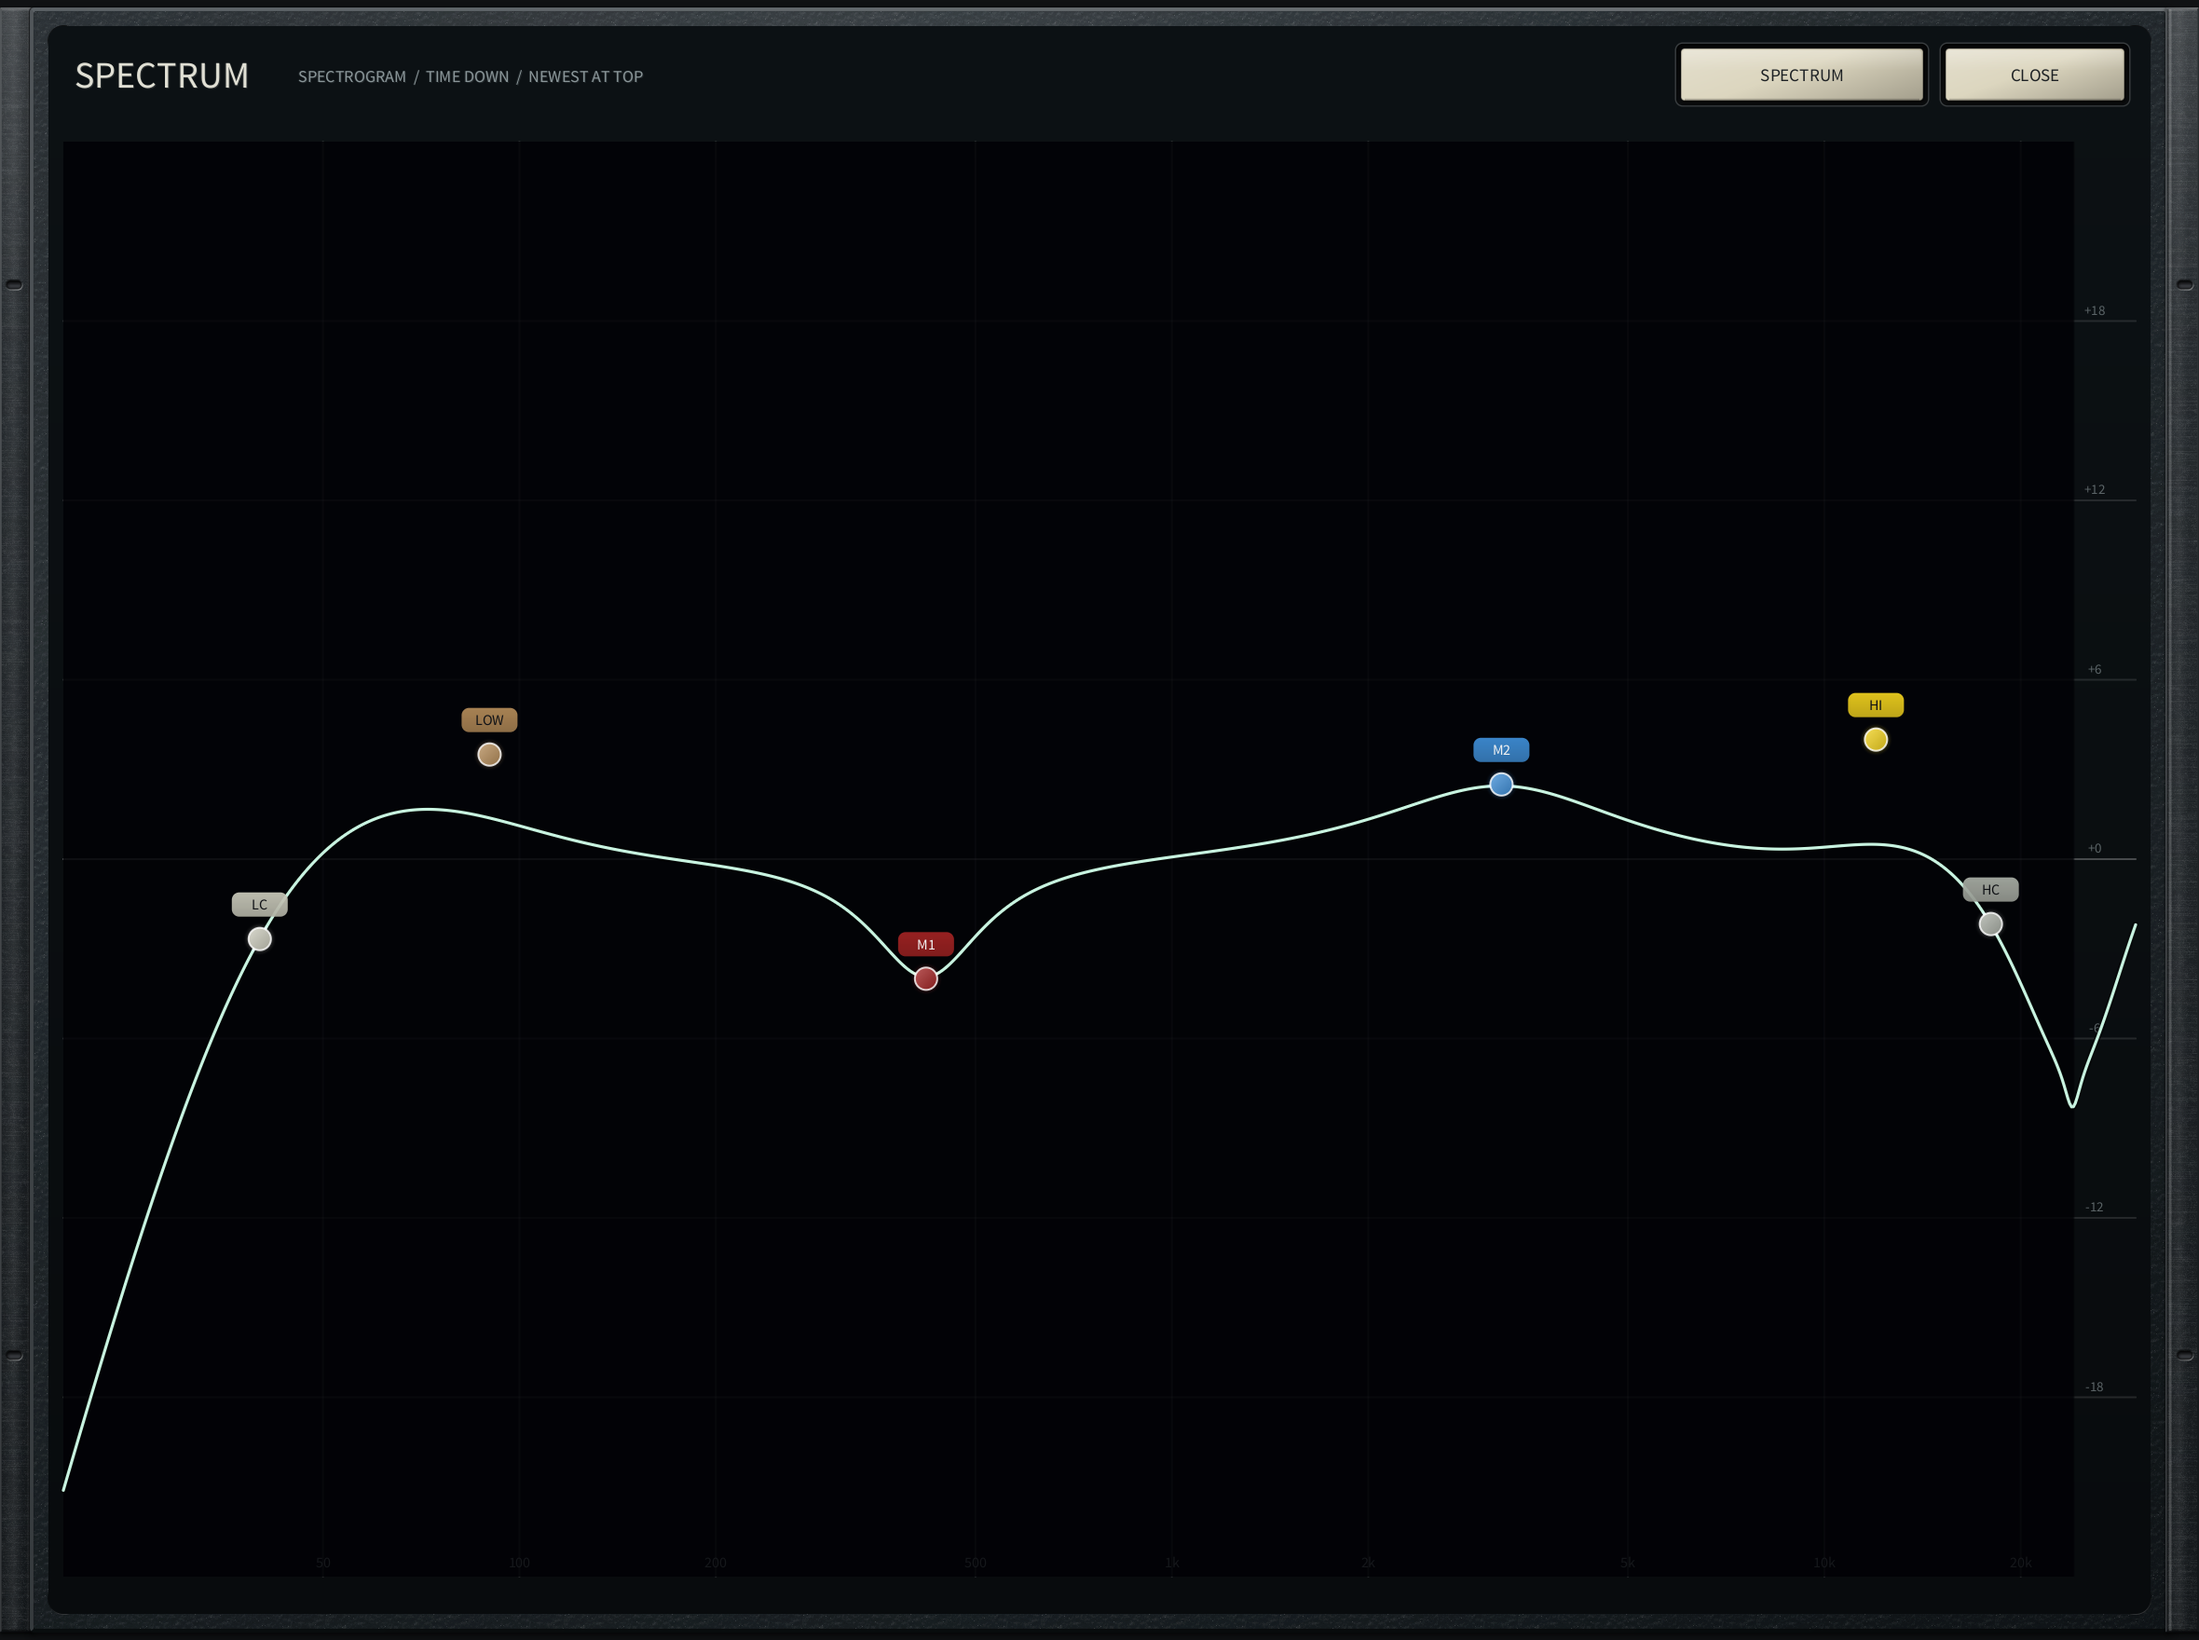
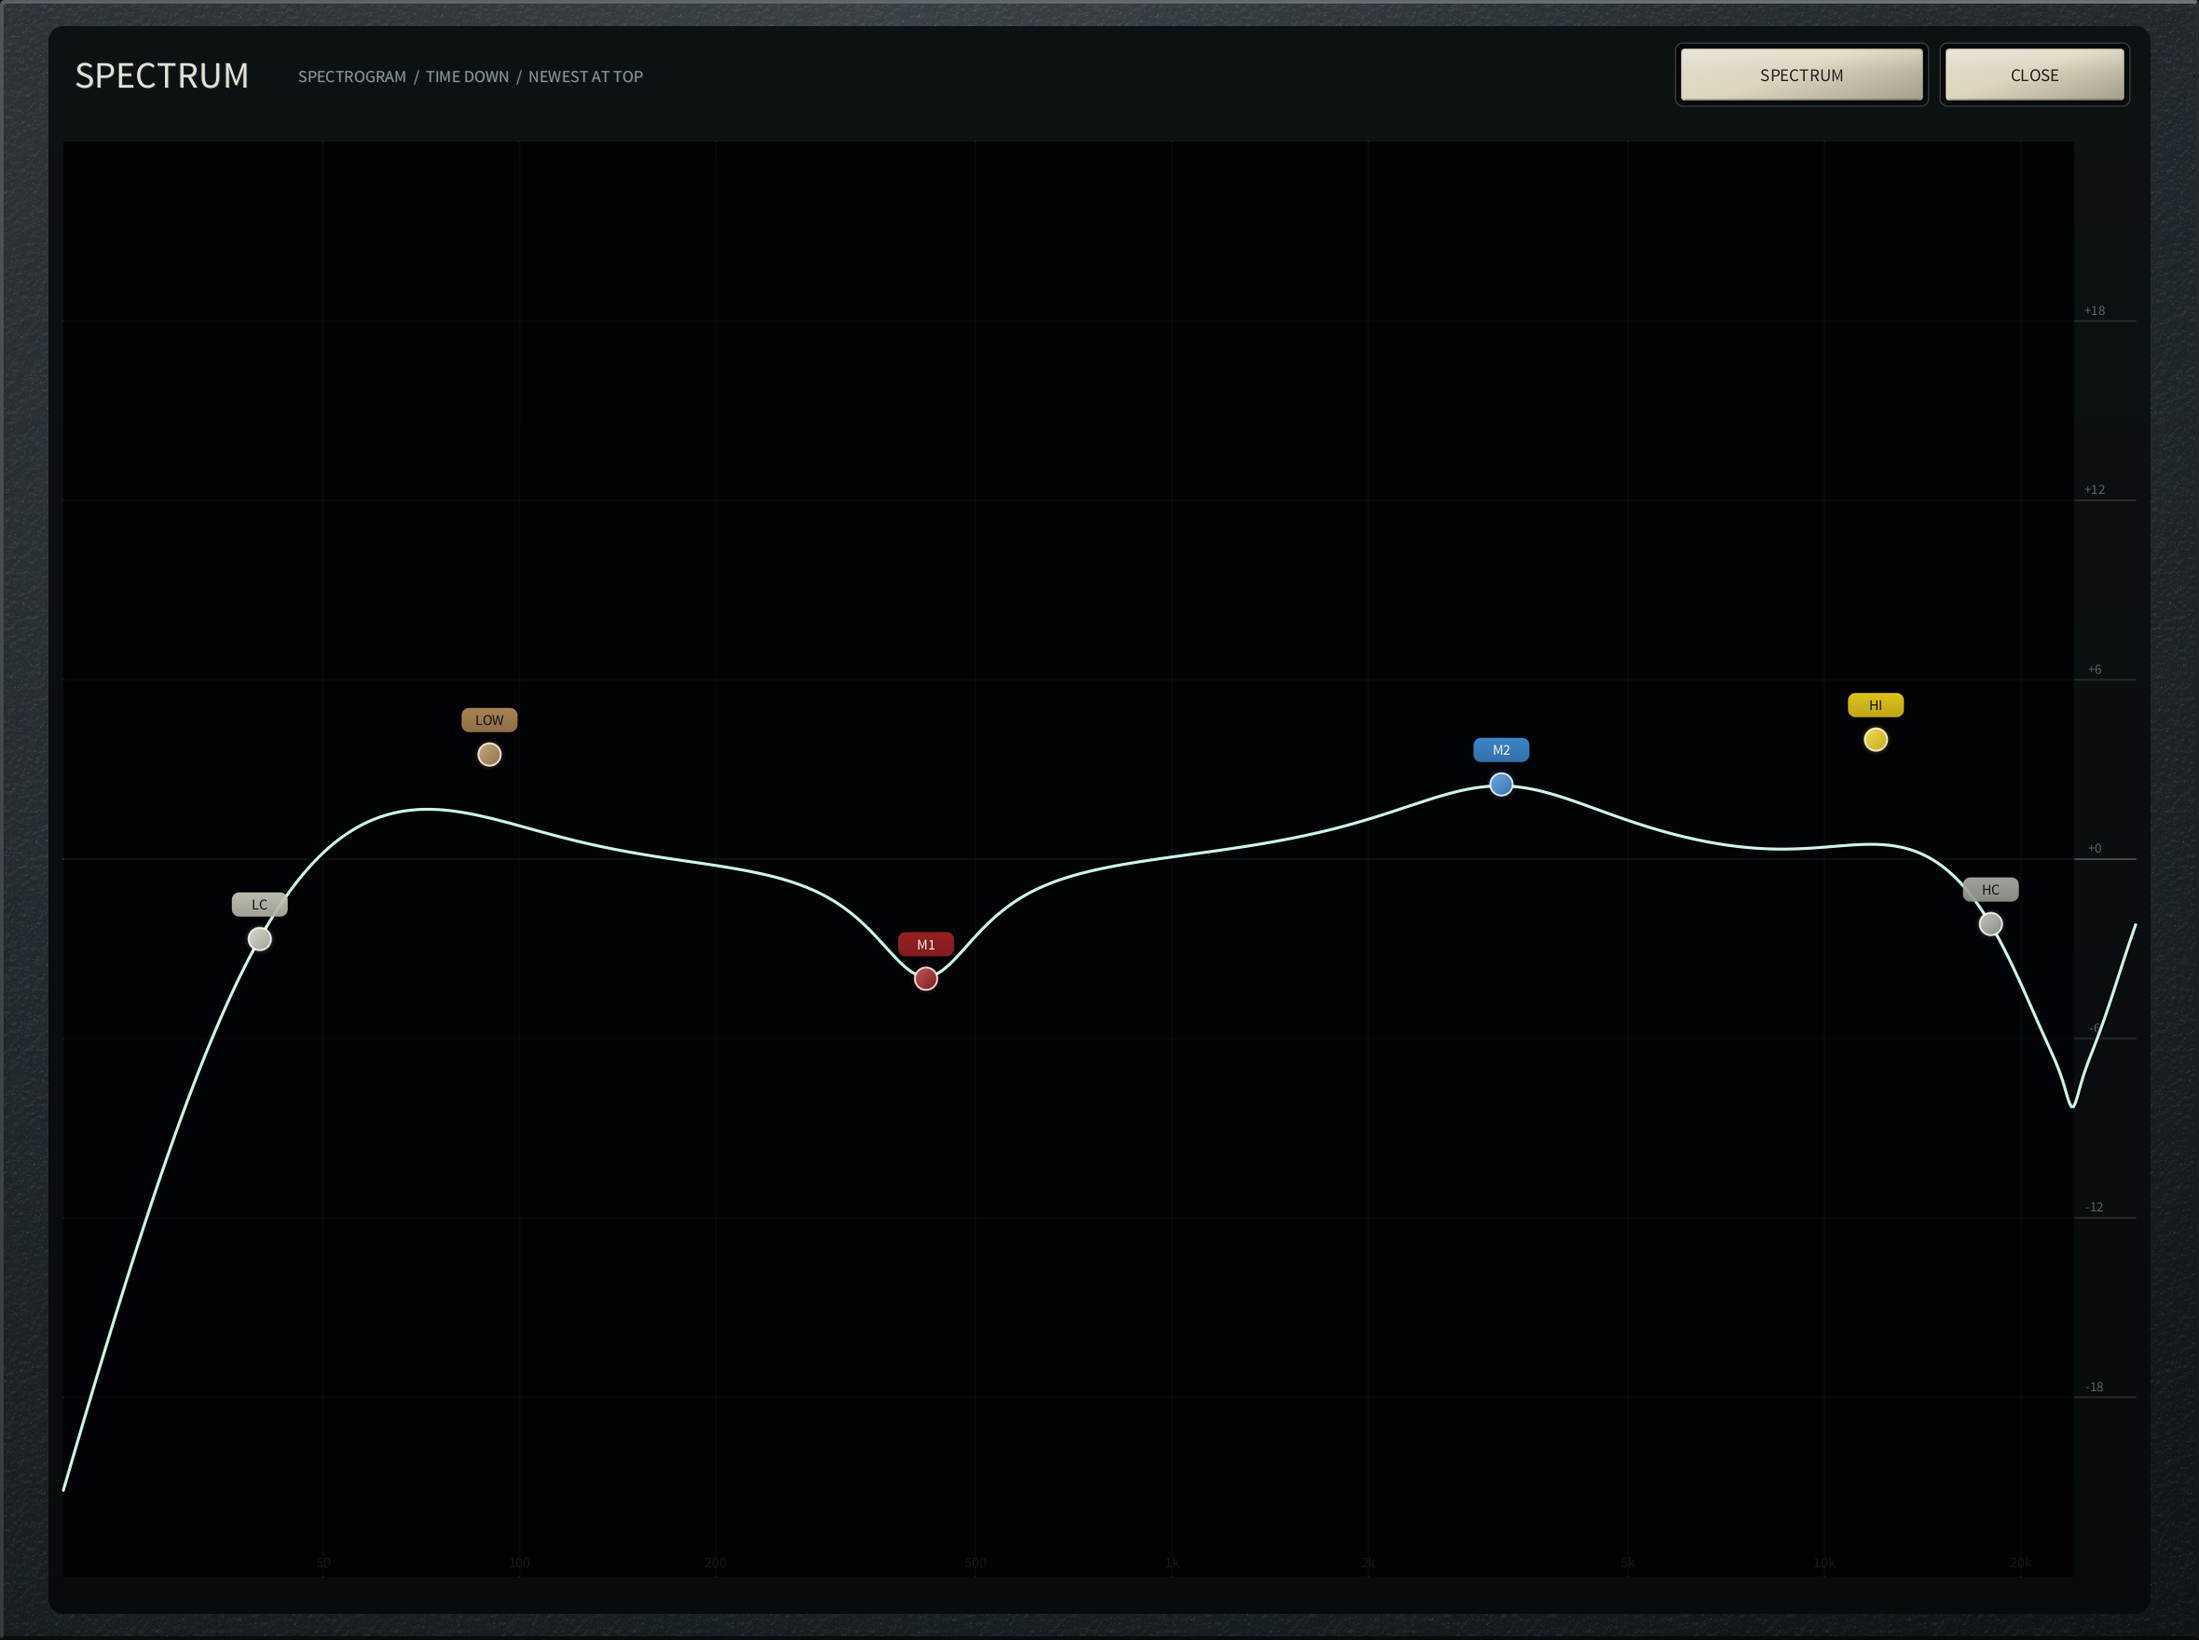
Editor: no screws or rack ears, A-Type knobs at the size of the others, readouts clear of the scale dots
The chassis fills the window. The A-Type knob, whose body is smaller than the
other styles at the same radius, is drawn larger. Band knobs are spaced
further apart with a tighter scale ring, the value box sits under each knob
between its end labels, and the knob name moves to the ring's top left so
the box above no longer covers it.

diff --git a/plugin/src/editor.rs b/plugin/src/editor.rs
@@ -119,7 +119,7 @@ fn strip_x(i: usize) -> f32 {
 }
 
 fn knob_centre(strip: usize, slot: usize) -> Point {
-    Point::new(strip_x(strip) + STRIP_W * 0.5, STRIP_Y + 106.0 + slot as f32 * 93.0)
+    Point::new(strip_x(strip) + STRIP_W * 0.5, STRIP_Y + 100.0 + slot as f32 * 98.0)
 }
 
 fn strip_key(strip: usize, row: usize) -> Rect {
@@ -435,12 +435,8 @@ impl HybridEqEditor {
         let ink = Color(chassis.text);
         let mid = Color(chassis.text_mid);
         let rig = openplugin::dri::goodlookindri::light::LightRig::studio();
-        // chassis with ears and screws
-        let panel = Rect::new(16.0, 4.0, W - 32.0, H - 8.0);
-        draw_rack_ear_with(sc, Rect::new(0.0, panel.y, 18.0, panel.h), true, Color(0xff2b3034), Color(0xff15191c), &rig);
-        draw_panel(sc, panel, Color(chassis.bg_top), Color(chassis.bg_bottom), FINISH_POWDER);
-        draw_rack_ear_with(sc, Rect::new(W - 18.0, panel.y, 18.0, panel.h), false, Color(0xff2b3034), Color(0xff15191c), &rig);
-        draw_corner_screws(sc, panel, ScrewHead::Cross);
+        // chassis: full width, no ears or screws
+        draw_panel(sc, Rect::new(0.0, 0.0, W, H), Color(chassis.bg_top), Color(chassis.bg_bottom), FINISH_POWDER);
         if self.overlay.is_some() {
             let body = Rect::new(26.0, 14.0, W - 52.0, H - 28.0);
             sc.fill_round(body, 8.0, Color(0xff0c1114), Color(0xff080b0d), true);
@@ -548,21 +544,24 @@ impl HybridEqEditor {
     /// Printed scale round a knob: dots, the end values, and the name above.
     fn paint_knob_ring(&self, sc: &mut Scene, c: Point, r: f32, param: usize, name: &str, ink: Color, mid: Color) {
         let p = &TABLE[param];
-        let mut ring = ScaleRing::new(c, r * 1.32 + 3.0, 11, 0, &[]);
+        let mut ring = ScaleRing::new(c, r + 9.0, 11, 0, &[]);
         ring.legend = Legend::Silk(mid);
         ring.marks = ScaleMarks::Dots;
         ring.tick = 2.2;
         draw_scale_ring_with(sc, &ring);
-        legend_text(sc, Legend::Silk(ink), Point::new(c.x, c.y - r * 1.32 - 11.0), name, if r > 24.0 { 10.0 } else { 8.5 }, true);
-        if r > 24.0 {
+        if r <= 24.0 {
+            legend_text(sc, Legend::Silk(ink), Point::new(c.x, c.y - r - 17.5), name, 8.5, true);
+        } else {
+            // band knobs stack: the name sits in the ring's top-left corner so it never meets the readout above
+            legend_text(sc, Legend::Silk(ink), Point::new(c.x - 70.0, c.y - r - 7.0), name, 10.0, false);
             let short = |v: f32| match p.unit {
                 hybrideq_engine::params::Unit::Hz if v >= 1000.0 => format!("{}k", v / 1000.0),
                 hybrideq_engine::params::Unit::Db => format!("{v:+.1}"),
                 hybrideq_engine::params::Unit::Q => format!("{v:.2}"),
                 _ => format!("{v}"),
             };
-            legend_text(sc, Legend::Silk(mid), Point::new(c.x - r * 1.5, c.y + r * 1.15), &short(p.min), 7.5, true);
-            legend_text(sc, Legend::Silk(mid), Point::new(c.x + r * 1.5, c.y + r * 1.15), &short(p.max), 7.5, true);
+            legend_text(sc, Legend::Silk(mid), Point::new(c.x - 46.0, c.y + r + 15.0), &short(p.min), 7.5, true);
+            legend_text(sc, Legend::Silk(mid), Point::new(c.x + 46.0, c.y + r + 15.0), &short(p.max), 7.5, true);
         }
     }
 
@@ -570,9 +569,12 @@ impl HybridEqEditor {
         let t = TABLE[param].to_normalized(self.v[param]);
         let angle = (t * 1.6 - 0.8) * PI;
         let colour = if active { Color(look.colour) } else { Color(look.colour).mix(Color(0xff4a4f52), 0.6) };
-        draw::knob_named_mode(sc, look.style, c, r, angle, colour, false, KnobMode::Lit);
+        // The A-Type body is small for its radius (its `visual_frame` reach is the pointer tip, so
+        // that cannot normalise it): draw it larger, lowered by its lift so it stays centred in the ring.
+        let (kr, ky) = if look.style == "A" { (r * 1.25, r * 0.115) } else { (r, 0.0) };
+        draw::knob_named_mode(sc, look.style, Point::new(c.x, c.y + ky), kr, angle, colour, false, KnobMode::Lit);
         if readout {
-            let box_ = Rect::new(c.x - 32.0, c.y + r + 12.0, 64.0, 17.0);
+            let box_ = Rect::new(c.x - 28.0, c.y + r + 7.0, 56.0, 16.0);
             sc.fill_round(box_, 3.0, Color(0xff080b0d), Color(0xff11161a), true);
             sc.stroke_round(box_, 3.0, Color(0x22ffffff), 1.0);
             let text = TABLE[param].format(self.v[param]);
